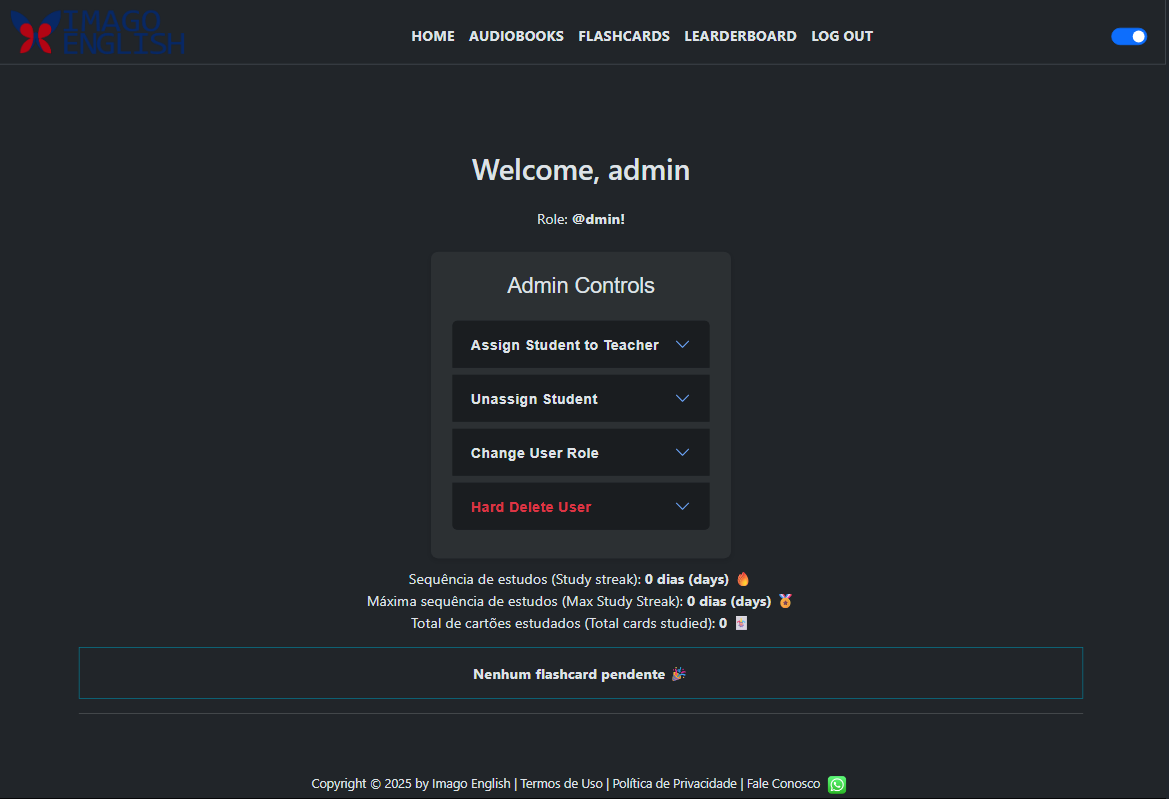
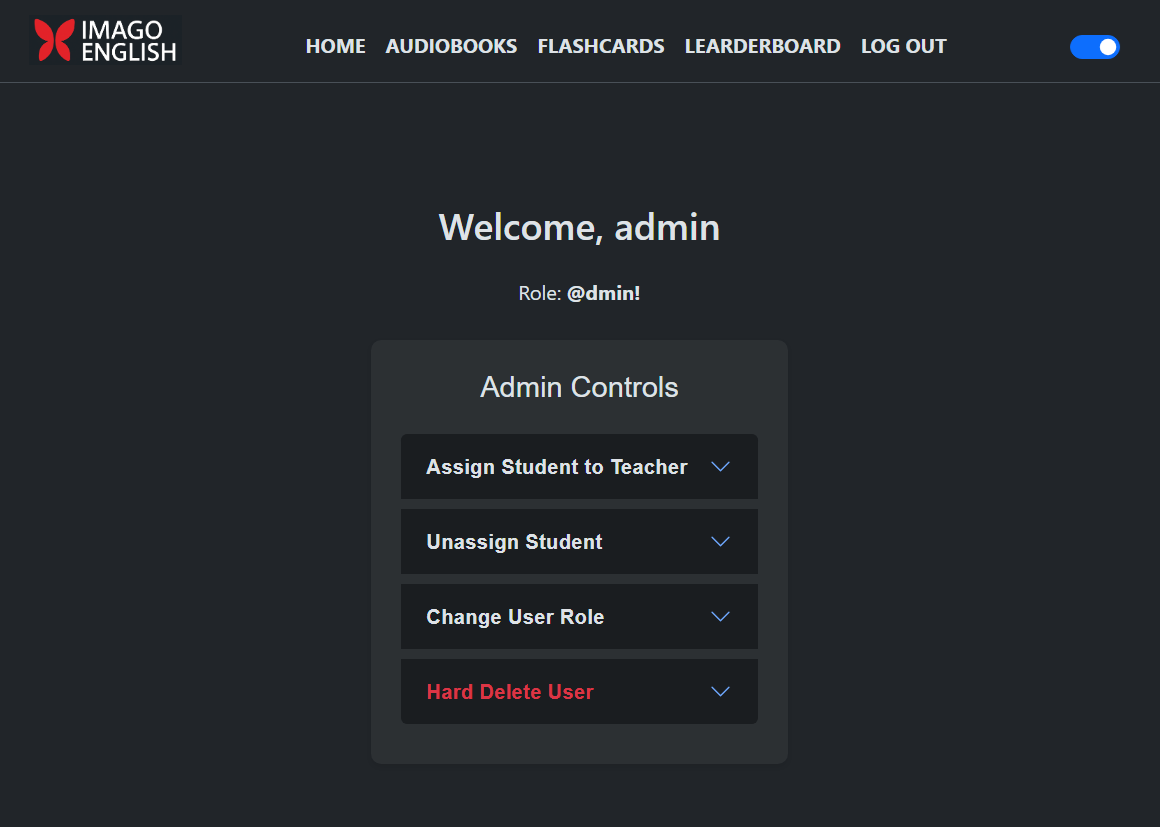
replace README screenshots

diff --git a/README.md b/README.md
@@ -27,7 +27,7 @@ A visual overview of the app
 
 | Student Dashboard | Teacher Dashboard | Admin Dashboard |
 |------------------|------------------|-----------------|
-| ![Student Dashboard](docs/screenshots/student_dashboard.png) | ![Teacher Dashboard](docs/screenshots/teacher-dashboard.png) | ![Admin Dashboard](docs/screenshots/admin_dashboard.png) |
+| ![Student Dashboard](docs/screenshots/student_dashboard.png) | ![Teacher Dashboard](docs/screenshots/teacher_dashboard.png) | ![Admin Dashboard](docs/screenshots/admin_dashboard.png) |
 
 ---
 
@@ -55,11 +55,11 @@ A visual overview of the app
 
 ---
 
-### Leaderboards & Demo
+### Leaderboards
 
-| Leaderboards | Demo Login |
+| Leaderboards | 
 |---------------|------------|
-| ![Leaderboards](docs/screenshots/leaderboards.png) | ![Demo Login](docs/screenshots/demo_login.png) |
+| ![Leaderboards](docs/screenshots/leaderboards.png) |
 
 ---
 
@@ -67,7 +67,7 @@ A visual overview of the app
 
 | Light Mode | Dark Mode |
 |-------------|------------|
-| ![Light Mode](docs/screenshots/light_mode.png) | ![Dark Mode](docs/screenshots/student_dashboard.png) |
+| ![Light Mode](docs/screenshots/light_mode.png) | ![Dark Mode](docs/screenshots/demo_login.png) |
 
 ---
 
